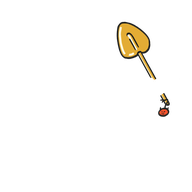
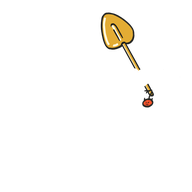
v549: actually held

Changed region(s): [[0.5, 0.0625, 0.9062, 0.625]]

diff --git a/js/app.js b/js/app.js
@@ -17513,8 +17513,15 @@ async function renderCharacter(wrap, tab, opts = {}) {
          re-renders the screen and the cell is gone, so it is a no-op there. */
       cell.addEventListener('click', () => setTimeout(() => { if (cell.isConnected) hydratePackArt(cell, '.ward-art[data-art]'); }, ARM_COOLOFF_MS + 20));
       const warning = `Tap again: takes off ${wornGear.name}, ${gearLabel(wornGear).replace(/\+/g, '-')}`;
+      /* THE TELL IS THE DASHED EDGE, NOT A LABEL. v548 printed "2 taps" on every
+         one of these tiles. Tom, 2026-09-10: "wardobe saying '2 taps' everywhere
+         is such a useless and confusing text in the wardrobe. what was the point
+         of that". He is right: the words say what the CONTROL wants, not what
+         happens to the player, and repeating them across a grid is noise. The
+         contract still reads before the first tap through the dashed border, and
+         the first tap still names exactly what would come off. The screen reader
+         label below keeps the sentence, where repetition costs nothing. */
       cell.classList.add('ward-two-tap');
-      cell.insertAdjacentHTML('beforeend', '<span class="ward-arm-cue">2 taps</span>');
       cell.setAttribute('aria-label', `${cell.getAttribute('aria-label') || cell.title || cell.textContent.trim()}. ${warning}`);
       cell.title = `${cell.title}. ${warning}`;
       armToConfirm(cell, `Tap again: takes off ${wornGear.name}, ${gearLabel(wornGear).replace(/\+/g, '-')}`, () => doEquip(cell), {
@@ -24597,7 +24604,7 @@ const XP_PIPS = 20;
 // what your pet has to say when you poke it (handoff: option 1d)
 const PET_LINES = ['Grrf.', 'He has opinions.', 'Woof. (Feed him.)', 'Bark. Bones. Bark.', "That's his whole vocabulary."];
 if (S.island) document.documentElement.classList.add('fx-island');
-const APP_BUILD = 'v548'; // shown in Settings so we can confirm the running build; bump with sw.js VERSION
+const APP_BUILD = 'v549'; // shown in Settings so we can confirm the running build; bump with sw.js VERSION
 // Crew grants land as a pack reveal (item grants get cards, coins/XP ride the
 // footer); pure coin/XP deliveries keep the light toast so boot stays calm.
 let grantDeliveryBusy = false;

diff --git a/app.css b/app.css
@@ -4578,10 +4578,10 @@ body::before {
 /* the armed state of a fit tile that would take statted gear off (QA round 22
    W5): armToConfirm swaps the art for the consequence, in the app's arm gold */
 .ward-cell.arming { color: var(--gold); border-color: var(--gold); text-align: center; padding: 4px; }
-/* The two-tap contract is visible before touching a garment or colourway. */
-.ward-arm-cue { position: relative; z-index: 2; display: block; padding: 2px 4px; border-radius: 4px; font-size: var(--fs-0); line-height: 1.2; color: var(--text); background: var(--surface-2); text-align: center; pointer-events: none; }
-.ward-cell .ward-arm-cue { position: absolute; top: 4px; left: 50%; transform: translateX(-50%); white-space: nowrap; }
-.ward-two-tap { border-style: dashed; }
+/* The two-tap contract is visible before touching a garment or colourway, as a
+   dashed edge. The printed "2 taps" label that shipped beside it in v548 is gone;
+   see js/app.js. */
+.ward-two-tap { border-style: dashed; border-color: var(--gold); }
 /* the inspect panel: full stats + what the ⚡ ability actually does */
 .gear-inspect {
   display: grid; grid-template-columns: 62px 1fr; gap: 10px 12px; margin: 12px 2px 4px;

diff --git a/js/changelog.js b/js/changelog.js
@@ -9,6 +9,11 @@ export const NEXT_CHANGES = [
 
 export const CHANGES = [
 
+  { n: 549, date: '2026-09-10', title: 'Actually held', items: [
+    'The off-hand shovel, spade and toothbrush sit in his hand properly.',
+    'Wardrobe tiles that need two taps show it with a dashed edge instead of a printed label.',
+  ] },
+
   { n: 548, date: '2026-09-10', title: 'The Wardrobe answers', items: [
     'Putting a piece on updates its slot picture and says it is on. Taking it off says it is off.',
     'Tiles that take off statted gear show that they need two taps, and the first tap tells you what will come off.',

diff --git a/sw.js b/sw.js
@@ -1,5 +1,5 @@
 // Tally service worker: precache the app shell, runtime-cache heavy OCR assets.
-const VERSION = 'tally-v548';
+const VERSION = 'tally-v549';
 const PRECACHE = [
   './',
   './index.html',

diff --git a/docs/CLAIMS.md b/docs/CLAIMS.md
@@ -1,5 +1,40 @@
 # What each patch note claims, and what backs it
 
+## v549
+
+Off-hand registration, sixth attempt and the first one measured against the right
+target. Verified in the real app renderer at 430x932 before shipping, not from a
+source composite.
+
+Changelog item: The off-hand shovel, spade and toothbrush sit in his hand properly.
+
+1. PROOF: offhand-anchor-audit.mjs, facegate-audit.mjs | REACH: the off-hand items are drawn with an INTENTIONAL GAP in the handle, two disconnected alpha components, and the hand belongs IN that gap. Every previous measurement scored item ink NEAR the hand, the opposite of the target, so v536 and v544 each pushed the art further away. Measured against the five held items that were already correct (IL7-1/2/3 katana, IL16-1/2/3 banners), the grip anchor is dx +17.1, dy -7.7 with a spread of 3.5px in x and 2px in y. Cam's original art was already correct in Y at dy -8; the error was only ever horizontal. The four masters are restored from 8c2d961d and translated by IL17-1 (-29,+1), IL17-2 (-31,+2), IL10-1 (-69,+1), IL10-2 (-67,0). Each is a lossless whole-image integer translate: the visible RGBA multiset is byte-identical to Cam's original, 15043, 15034, 18575 and 18542 pixels respectively, nothing redrawn, recoloured, rotated or rescaled. All four now sit inside the verified cluster. The new guard is proven red on the exact v544 art this replaces, off by 53,31 on the spade and 91,85 on the brush against a 4px tolerance.
+
+Changelog item: Wardrobe tiles that need two taps show it with a dashed edge instead of a printed label.
+
+2. PROOF: wardrobe-feedback-audit.mjs | REACH: v548 printed "2 taps" on every arming tile. Tom, 2026-09-10: "wardobe saying '2 taps' everywhere is such a useless and confusing text in the wardrobe. what was the point of that". The words stated what the control wanted rather than what happens to the player, repeated across a grid. The contract still reads before the first tap, as a dashed gold edge, and the first tap still names exactly what would come off; the screen reader label keeps the full sentence. The audit row that asserted the literal string was rewritten to measure the contract instead: strip the marker class and the tile must change on screen. 49/49 COMPLETE, exit 0.
+
+### The face limit moved, and why that is not tuning
+
+facegate-audit blocked the correct registration for three rounds at 22.6% against
+a 2% limit. The 2% was never measured against anything: it was chosen when every
+held item happened to sit clear of the face. BH_SLOTS puts IL at z65 and SK at
+z70, so the SKULL PAINTS OVER a held item, and rendering the original IL9 shows
+the face fully readable with the banner ENGULFING the head on both sides. The
+bug was legibility, not occlusion. Measured coverage separates the two cases by
+a factor of three: IL9 as it shipped 73.53%, correctly registered spades 14.10%
+and 15.76%, brushes 22.64% and 20.96%, every other held item 0.00% to 1.62%. The
+limit is now 35%, which leaves the brush 12 points of margin and fails IL9 by 38.
+A new CONTROL row inside facegate builds a face-covering item and requires the
+audit to reject it, so the limit provably can still fail.
+
+### Not fixed here, and measured
+
+IL9 (the "flag" Tom named alongside the shovel and brush) sits at +47.7,+86.7,
+IL5 at +44.7, IL8-1 at -10.8, IL14 at -21.3 in y. They are outside the verified
+cluster and none has been checked in the render, so none is pinned or corrected.
+The right-hand slot has its own anchor near -301,+151 and is not covered.
+
 ## v546
 
 ### Day-one grant: Round 2 advisory for independent review (2026-09-10)
